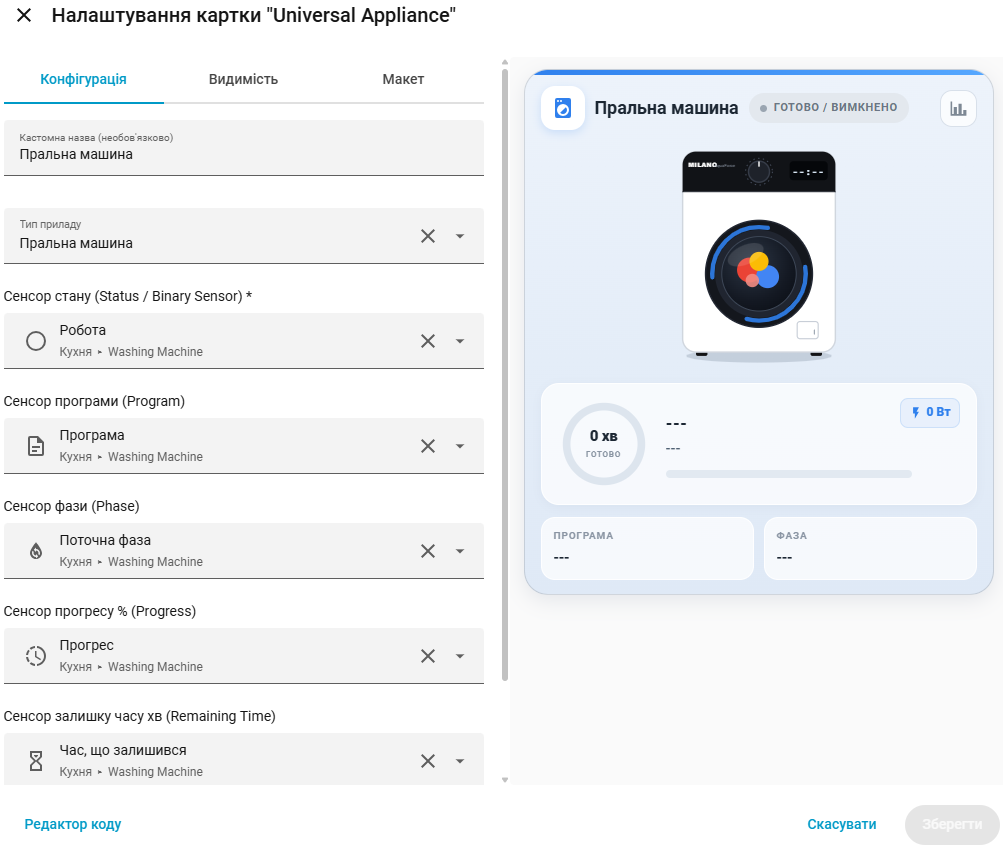
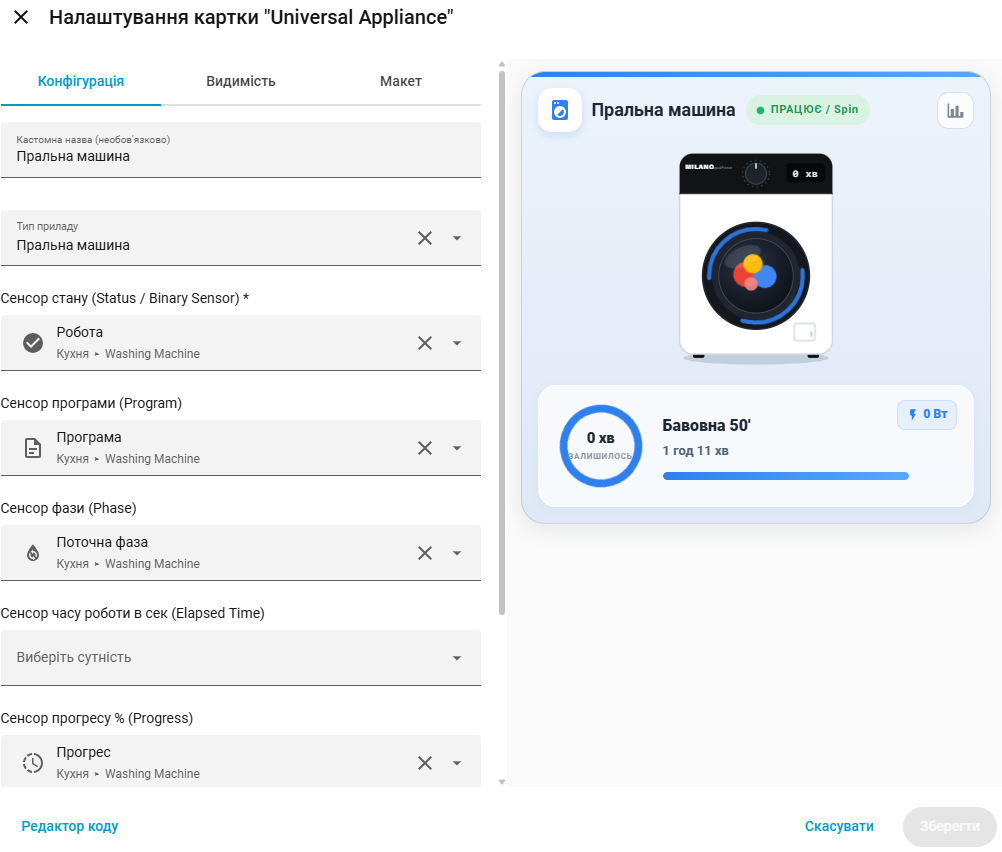
Зміни: - Видалено нижній блок: Картки ПРОГРАМА та ФАЗА повністю прибрано з низу. - Час роботи в центральній панелі: Під назвою програми тепер виводиться час роботи у хвилинах/годинах з датчиків sensor.washing_machine_elapsed_time / sensor.dishwasher_elapsed_time (або вказаного вручну elapsed_entity)

diff --git a/appliance-card.js b/appliance-card.js
@@ -35,6 +35,7 @@ class ApplianceCardEditor extends HTMLElement {
         { name: "status_entity", label: "Сенсор стану (Status / Binary Sensor) *", selector: { entity: {} } },
         { name: "program_entity", label: "Сенсор програми (Program)", selector: { entity: {} } },
         { name: "phase_entity", label: "Сенсор фази (Phase)", selector: { entity: {} } },
+        { name: "elapsed_entity", label: "Сенсор часу роботи в сек (Elapsed Time)", selector: { entity: {} } },
         { name: "progress_entity", label: "Сенсор прогресу % (Progress)", selector: { entity: {} } },
         { name: "remaining_entity", label: "Сенсор залишку часу хв (Remaining Time)", selector: { entity: {} } },
         { name: "power_entity", label: "Сенсор потужності Вт (Power)", selector: { entity: {} } },
@@ -98,6 +99,7 @@ class ApplianceCard extends HTMLElement {
       status_entity: "",
       program_entity: "",
       phase_entity: "",
+      elapsed_entity: "",
       progress_entity: "",
       remaining_entity: "",
       power_entity: "",
@@ -116,7 +118,7 @@ class ApplianceCard extends HTMLElement {
   }
 
   getCardSize() {
-    return 5;
+    return 4;
   }
 
   connectedCallback() {
@@ -164,6 +166,19 @@ class ApplianceCard extends HTMLElement {
       return `${h} ${t.hour} ${remM} ${t.min}`;
     }
     return `${remM} ${t.min}`;
+  }
+
+  _fmtElapsedTime(seconds) {
+    const sec = parseInt(seconds, 10);
+    if (isNaN(sec) || sec <= 0) return "";
+    const t = this._t;
+    const totalMin = Math.floor(sec / 60);
+    const h = Math.floor(totalMin / 60);
+    const remM = totalMin % 60;
+    if (h > 0) {
+      return `${h} ${t.hour} ${remM} ${t.min}`;
+    }
+    return `${totalMin} ${t.min}`;
   }
 
   _fmtPower(val) {
@@ -294,7 +309,7 @@ class ApplianceCard extends HTMLElement {
         ha-card {
           display: block;
           border-radius: 24px;
-          padding: 16px 16px 14px;
+          padding: 16px 16px 16px;
           overflow: hidden;
           position: relative;
           background: linear-gradient(180deg, #edf3fb 0%, #e4edf8 55%, #dfe9f6 100%);
@@ -390,7 +405,7 @@ class ApplianceCard extends HTMLElement {
 
         .st-col { flex: 1; min-width: 0; padding-right: 48px; }
         .st-program { font-size: 16px; font-weight: 800; color: #1c2733; white-space: nowrap; overflow: hidden; text-overflow: ellipsis; }
-        .st-phase { font-size: 13px; color: #506173; font-weight: 600; margin-top: 3px; white-space: nowrap; overflow: hidden; text-overflow: ellipsis; }
+        .st-elapsed { font-size: 13px; color: #506173; font-weight: 600; margin-top: 3px; white-space: nowrap; overflow: hidden; text-overflow: ellipsis; }
         
         .bar { height: 8px; border-radius: 6px; background: #e2e9f1; margin-top: 10px; overflow: hidden; }
         .bar-fill { height: 100%; border-radius: 6px; width: 0%; background: linear-gradient(90deg, #2f80ed, #56a8ff); transition: width .5s ease; }
@@ -404,11 +419,6 @@ class ApplianceCard extends HTMLElement {
           cursor: pointer;
         }
         .power-badge ha-icon { --mdc-icon-size: 14px; color: #2f80ed; }
-
-        .info-grid { display: grid; grid-template-columns: repeat(2, 1fr); gap: 10px; margin-top: 12px; }
-        .info-card { background: rgba(255,255,255,.72); border: 1px solid rgba(255,255,255,.9); border-radius: 14px; padding: 10px 12px; cursor: pointer; }
-        .info-label { font-size: 10px; font-weight: 700; letter-spacing: .8px; color: #8a95a3; }
-        .info-value { font-size: 13.5px; font-weight: 700; margin-top: 3px; color: #1c2733; white-space: nowrap; overflow: hidden; text-overflow: ellipsis; }
         
         .alert-box { padding: 12px; background: #fee2e2; color: #991b1b; border-radius: 12px; font-weight: 600; font-size: 13px; text-align: center; }
       </style>
@@ -454,19 +464,8 @@ class ApplianceCard extends HTMLElement {
 
               <div class="st-col">
                 <div class="st-program" id="stProgram">---</div>
-                <div class="st-phase" id="stPhase">---</div>
+                <div class="st-elapsed" id="stElapsed" style="display: none;"></div>
                 <div class="bar" id="bar"><div class="bar-fill" id="barFill"></div></div>
-              </div>
-            </div>
-
-            <div class="info-grid">
-              <div class="info-card" id="cardProg">
-                <div class="info-label">${t.program}</div>
-                <div class="info-value" id="valProgram">---</div>
-              </div>
-              <div class="info-card" id="cardPhase">
-                <div class="info-label">${t.phase}</div>
-                <div class="info-value" id="valPhase">---</div>
               </div>
             </div>
           </div>
@@ -483,8 +482,6 @@ class ApplianceCard extends HTMLElement {
     root.getElementById("chartBtn")?.addEventListener("click", mi(c.status_entity));
     root.getElementById("ringBox")?.addEventListener("click", mi(c.remaining_entity || c.status_entity));
     root.getElementById("powerBadge")?.addEventListener("click", mi(c.power_entity));
-    root.getElementById("cardProg")?.addEventListener("click", mi(c.program_entity));
-    root.getElementById("cardPhase")?.addEventListener("click", mi(c.phase_entity));
 
     this._built = true;
   }
@@ -520,11 +517,25 @@ class ApplianceCard extends HTMLElement {
 
     const status = this._st(c.status_entity);
     const noData = !status || ["unknown", "unavailable"].includes(status.state);
+    
+    // Фаза у верхньому баджі
+    const rawPhase = c.phase_entity ? this._st(c.phase_entity)?.state : null;
+    const phaseVal = (rawPhase && !["off", "unavailable", "unknown", "none", "idle", "null", ""].includes(String(rawPhase).toLowerCase())) 
+      ? String(rawPhase).trim() 
+      : "";
+
     const badgeTextEl = root.getElementById("badgeText");
     if (badgeTextEl) {
-      badgeTextEl.textContent = noData ? t.badge_nodata : running ? t.badge_running : t.badge_idle;
+      if (noData) {
+        badgeTextEl.textContent = t.badge_nodata;
+      } else if (running) {
+        badgeTextEl.textContent = phaseVal ? `${t.badge_running} / ${phaseVal}` : t.badge_running;
+      } else {
+        badgeTextEl.textContent = t.badge_idle;
+      }
     }
 
+    // Залишок часу
     const remState = c.remaining_entity ? this._st(c.remaining_entity)?.state : null;
     const remFmt = running ? this._fmtTimeRemaining(remState) : "---";
 
@@ -537,10 +548,12 @@ class ApplianceCard extends HTMLElement {
     const ringLabelEl = root.getElementById("ringLabel");
     if (ringLabelEl) ringLabelEl.textContent = running ? t.ring_running : t.ring_idle;
 
+    // Потужність
     const powerRaw = c.power_entity ? this._st(c.power_entity)?.state : null;
     const powerValEl = root.getElementById("powerVal");
     if (powerValEl) powerValEl.textContent = this._fmtPower(powerRaw);
 
+    // Прогрес
     const progRaw = c.progress_entity ? this._st(c.progress_entity)?.state : null;
     const progNum = parseFloat(progRaw);
     let progress = isNaN(progNum) ? 0 : Math.min(100, Math.max(0, progNum));
@@ -556,20 +569,22 @@ class ApplianceCard extends HTMLElement {
     const barFillEl = root.getElementById("barFill");
     if (barFillEl) barFillEl.style.width = running ? `${progress}%` : "0%";
 
+    // Назва програми
     const programText = this._getCleanVal(c.program_entity, running);
-    const phaseText = this._getCleanVal(c.phase_entity, running);
-
     const stProgramEl = root.getElementById("stProgram");
     if (stProgramEl) stProgramEl.textContent = programText;
 
-    const stPhaseEl = root.getElementById("stPhase");
-    if (stPhaseEl) stPhaseEl.textContent = phaseText;
+    // Час роботи (elapsed_time) у центральній панелі
+    const defaultElapsedEntity = isDw ? "sensor.dishwasher_elapsed_time" : "sensor.washing_machine_elapsed_time";
+    const elapsedEntityId = c.elapsed_entity || defaultElapsedEntity;
+    const elapsedSec = this._st(elapsedEntityId)?.state;
+    const elapsedFmt = running ? this._fmtElapsedTime(elapsedSec) : "";
 
-    const valProgramEl = root.getElementById("valProgram");
-    if (valProgramEl) valProgramEl.textContent = programText;
-
-    const valPhaseEl = root.getElementById("valPhase");
-    if (valPhaseEl) valPhaseEl.textContent = phaseText;
+    const stElapsedEl = root.getElementById("stElapsed");
+    if (stElapsedEl) {
+      stElapsedEl.textContent = elapsedFmt;
+      stElapsedEl.style.display = elapsedFmt ? "block" : "none";
+    }
   }
 }
 

diff --git a/README.md b/README.md
@@ -4,6 +4,7 @@
 [![GitHub Release](https://img.shields.io/github/v/release/WildeRNS/appliance-card)](https://github.com/WildeRNS/appliance-card/releases)
 
 Анімована картка для Home Assistant для відображення стану **пральної** та **посудомийної** машин із підтримкою **візуального редактора UI**.
+Дана картка використовує сенсори з інтеграції [WashData](https://github.com/3dg1luk43/ha_washdata)
 
 ![Appliance Card Preview](preview.png)
 ![Appliance Card Config](config.png)
